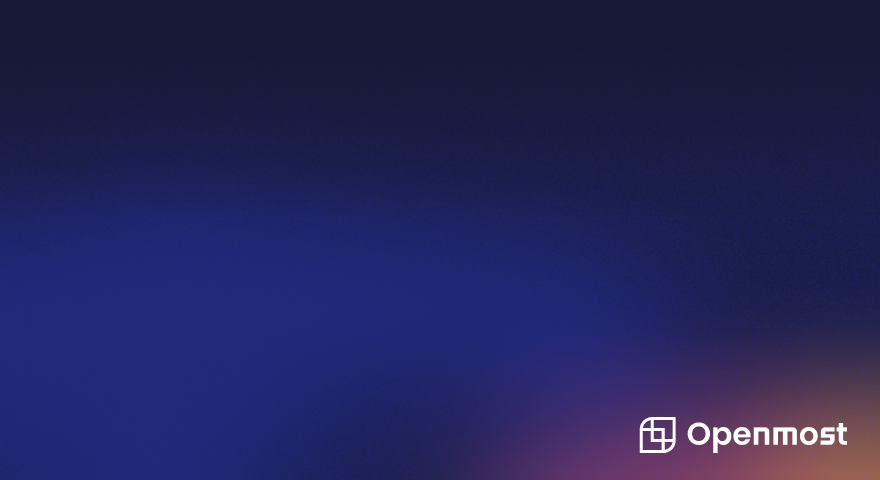
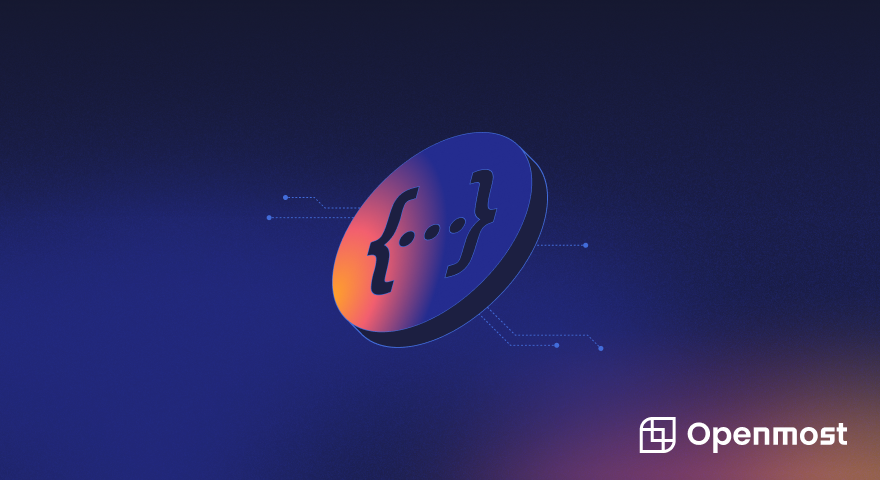
update: marketplace cover

Changed region(s): [[0.3682, 0.25, 0.6443, 0.75]]

diff --git a/CHANGELOG.md b/CHANGELOG.md
@@ -1,5 +1,9 @@
 ## Changelog
 
+### v5.1.4
+
+update: marketplace cover
+
 ### v5.1.3
 
 update: marketplace category and cover
